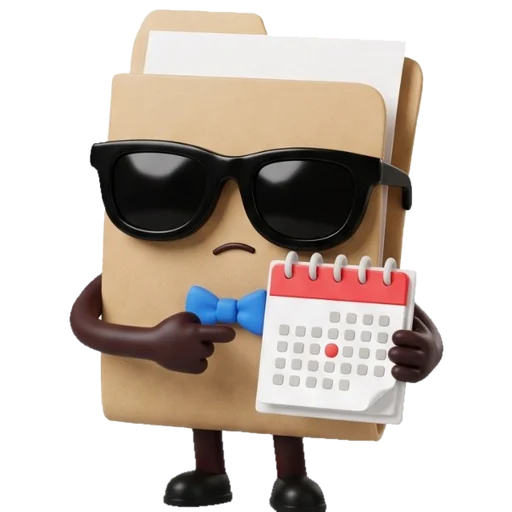
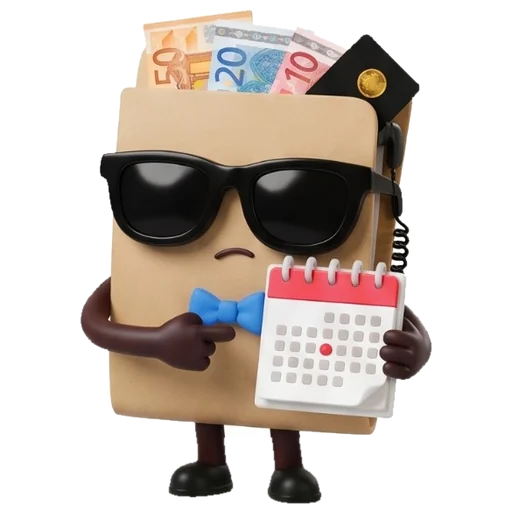
Bud Jet version agent : oreillette, carte d'agent et billets en euros
- 6 poses (nouvelle pose « coucou » pour la présentation)
- Planche source et script de découpe mis à jour dans design/

Claude-Session: https://claude.ai/code/session_017nKtcVwXgKY6DgHzf1brLn

Changed region(s): [[0.125, 0.0, 0.875, 1.0]]

diff --git a/index.html b/index.html
@@ -880,7 +880,7 @@ let F = null;    // Firebase { app, auth, db, A, S } (appli installée)
 const IN_CLAUDE = !!(window.claude && typeof window.claude.use === 'function');
 const FB_VERSION = '10.14.1';
 /** Horodatage de la version, inscrit par build.sh (0 dans l'aperçu). */
-const BUILD = +'1794477407' || 0;
+const BUILD = +'1794477910' || 0;
 /** Console d'administration : réservée à cette adresse, vérifiée aussi par les règles du serveur. */
 const ADMIN_EMAIL = 'q.theuninck@gmail.com';
 const isAdmin = () => !!(F && state.user && state.user.email === ADMIN_EMAIL);
@@ -1852,7 +1852,7 @@ function maybeJetIntro(){
   ls.set('bf.jetIntro', true);
   const fresh = !state.lines.some(l => !l.example);
   setTimeout(() => {
-    jetPanel('arrive', '« Mon nom est Jet. Bud Jet. »', fresh
+    jetPanel('coucou', '« Mon nom est Jet. Bud Jet. »', fresh
       ? "Je suis là pour vous aider à gérer vos dépenses, à deux et sans mauvaises surprises. On commence par ton budget belge ? Ça prend 2 minutes."
       : "Je suis là pour vous aider à gérer vos dépenses, à deux et sans mauvaises surprises. Je surveille tes échéances et je te préviens avant qu'elles tombent.",
       fresh ? 'Préparer mon budget' : "C'est parti", fresh ? 'be-tpl' : 'close',

diff --git a/src/app.html b/src/app.html
@@ -1834,7 +1834,7 @@ function maybeJetIntro(){
   ls.set('bf.jetIntro', true);
   const fresh = !state.lines.some(l => !l.example);
   setTimeout(() => {
-    jetPanel('arrive', '« Mon nom est Jet. Bud Jet. »', fresh
+    jetPanel('coucou', '« Mon nom est Jet. Bud Jet. »', fresh
       ? "Je suis là pour vous aider à gérer vos dépenses, à deux et sans mauvaises surprises. On commence par ton budget belge ? Ça prend 2 minutes."
       : "Je suis là pour vous aider à gérer vos dépenses, à deux et sans mauvaises surprises. Je surveille tes échéances et je te préviens avant qu'elles tombent.",
       fresh ? 'Préparer mon budget' : "C'est parti", fresh ? 'be-tpl' : 'close',

diff --git a/sw.js b/sw.js
@@ -2,7 +2,7 @@
 // - Page : réseau d'abord (mises à jour immédiates), cache en secours hors ligne.
 // - Fichiers de l'appli et SDK Firebase (versions figées, immuables) : cache d'abord.
 // - Les échanges avec Firebase (Auth, Firestore) ne sont jamais interceptés : le SDK gère lui-même le hors ligne.
-const CACHE = 'budget-foyer-v5';
+const CACHE = 'budget-foyer-v6';
 const SHELL = ['./', './index.html', './manifest.webmanifest', './icons/icon.svg', './icons/icon-192.png', './icons/apple-touch-icon.png'];
 const FIREBASE_SDK = /^https:\/\/www\.gstatic\.com\/firebasejs\/\d+\.\d+\.\d+\//;
 

diff --git a/design/jet-decoupe.py b/design/jet-decoupe.py
@@ -1,7 +1,7 @@
 import numpy as np
 from PIL import Image, ImageDraw, ImageFilter
-SRC='/tmp/claude-0/-home-user-budget/83ad18b3-79aa-508a-8ca8-42c0d62ae3b2/images/19.jpg'
-OUT='/home/user/budget/assets/jet/'
+SRC='design/jet-source.jpg'   # planche 2 colonnes × 3 rangées
+OUT='assets/jet/'
 im=Image.open(SRC).convert('RGB'); a=np.asarray(im).astype(np.int16)
 lum=a.mean(2); sat=a.max(2)-a.min(2); H,W=lum.shape
 def flood(mask, seeds):
@@ -11,10 +11,10 @@ def flood(mask, seeds):
     return np.asarray(m)==128
 seeds=[(0,0),(W-1,0),(0,H-1),(W-1,H-1),(W//2,0),(W//2,H-1),(0,H//2),(W-1,H//2)]
 bg=flood((lum>=247)&(sat<=10), seeds)          # fond pur (la feuille du dossier est ~239 : protégée)
-boxes={'bravo':(60,80,680,720),'reflechit':(900,80,1380,720),'alerte':(520,700,1010,1310),'fete':(100,1190,700,1960),'arrive':(800,1315,1400,1940)}
+boxes={'bravo':(0,60,671,648),'reflechit':(671,60,1342,648),'alerte':(0,648,671,1338),'fete':(671,648,1342,1338),'arrive':(0,1338,671,2000),'coucou':(671,1338,1342,2000)}
 for n,(x0,y0,x1,y1) in boxes.items():
     sub_bg=bg[y0:y1,x0:x1].copy(); L=lum[y0:y1,x0:x1]; S=sat[y0:y1,x0:x1]
-    if n=='fete': sub_bg[0:125, 520:]=True     # pieds du personnage voisin
+
     fg=~sub_bg; ys,xs=np.where(fg); bottom=ys.max(); top=ys.min()
     # ombres au sol : gris clair sous les pieds, reliés au fond
     zone=np.zeros_like(fg); zone[int(bottom-(bottom-top)*0.16):,:]=True
@@ -36,10 +36,10 @@ for n,(x0,y0,x1,y1) in boxes.items():
     pad=10; c=c.crop((max(0,xx.min()-pad),max(0,yy.min()-pad),min(c.width,xx.max()+pad),min(c.height,yy.max()+pad)))
     s=max(c.width,c.height); sq=Image.new('RGBA',(s,s),(0,0,0,0)); sq.paste(c,((s-c.width)//2,s-c.height))
     sq.resize((512,512),Image.LANCZOS).save(OUT+n+'.png',optimize=True); print(n,c.size)
-names=['arrive','bravo','reflechit','alerte','fete']
-sheet=Image.new('RGBA',(5*260,2*260),(0,0,0,255))
+names=['coucou','arrive','bravo','reflechit','alerte','fete']
+sheet=Image.new('RGBA',(6*260,2*260),(0,0,0,255))
 for i,n in enumerate(names):
     j=Image.open(OUT+n+'.png').resize((250,250))
     for k,col in enumerate([(242,242,247,255),(28,28,30,255)]):
         t=Image.new('RGBA',(260,260),col); t.alpha_composite(j,(5,5)); sheet.paste(t,(i*260,k*260))
-sheet.save('/tmp/claude-0/-home-user-budget/83ad18b3-79aa-508a-8ca8-42c0d62ae3b2/scratchpad/jet-check.png')
+sheet.save('/tmp/jet-check.png')
